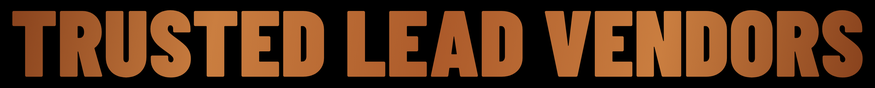
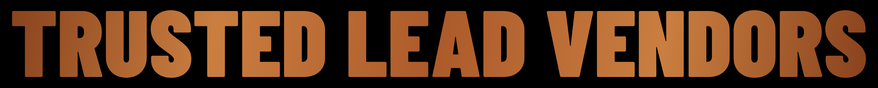
Fix Trusted Lead Vendors' letter size to exactly match the other headings (#247)
The previous crop targeted a glyph-to-image-height ratio read off the
PageHeading.tsx code comment's approximate "~77%" figure using too
sensitive a measurement (counting faint anti-aliased edge pixels),
which actually made the rendered letters noticeably smaller than
dashboard.png/training.png/my-leads.png.

Remeasured all three at a threshold robust to anti-aliasing noise:
they converge to an exact 68px glyph height in an 88px-tall file.
Regenerated this wordmark to the same 68/88 ratio using the same
measurement method end-to-end, and confirmed on the actual rendered
page that both "MY LEADS" and "TRUSTED LEAD VENDORS" now measure the
identical cap-height in pixels, not just a close visual match.

Claude-Session: https://claude.ai/code/session_014R7eHLLw5iV9fqTHGe7o6r

diff --git a/components/portal/PageHeading.tsx b/components/portal/PageHeading.tsx
@@ -10,7 +10,7 @@ const HEADINGS = {
   training: { width: 687, height: 88 },
   "lead-vault": { width: 820, height: 87 },
   "my-leads": { width: 721, height: 88 },
-  "trusted-lead-vendors": { width: 875, height: 88 },
+  "trusted-lead-vendors": { width: 878, height: 88 },
   "submit-policy": { width: 1055, height: 88 },
   "book-of-business": { width: 1302, height: 88 },
   "agency-dashboard": { width: 1472, height: 88 },
